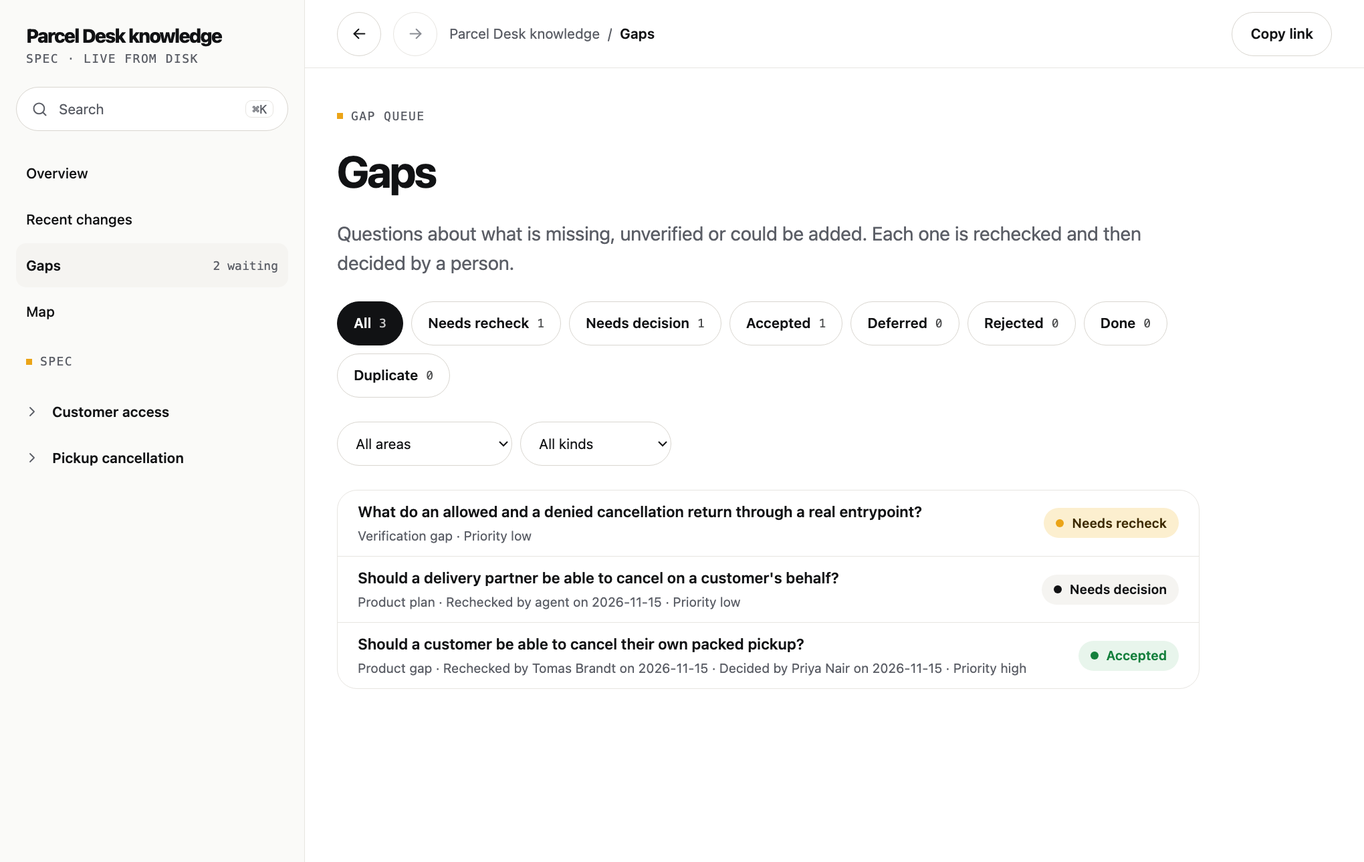
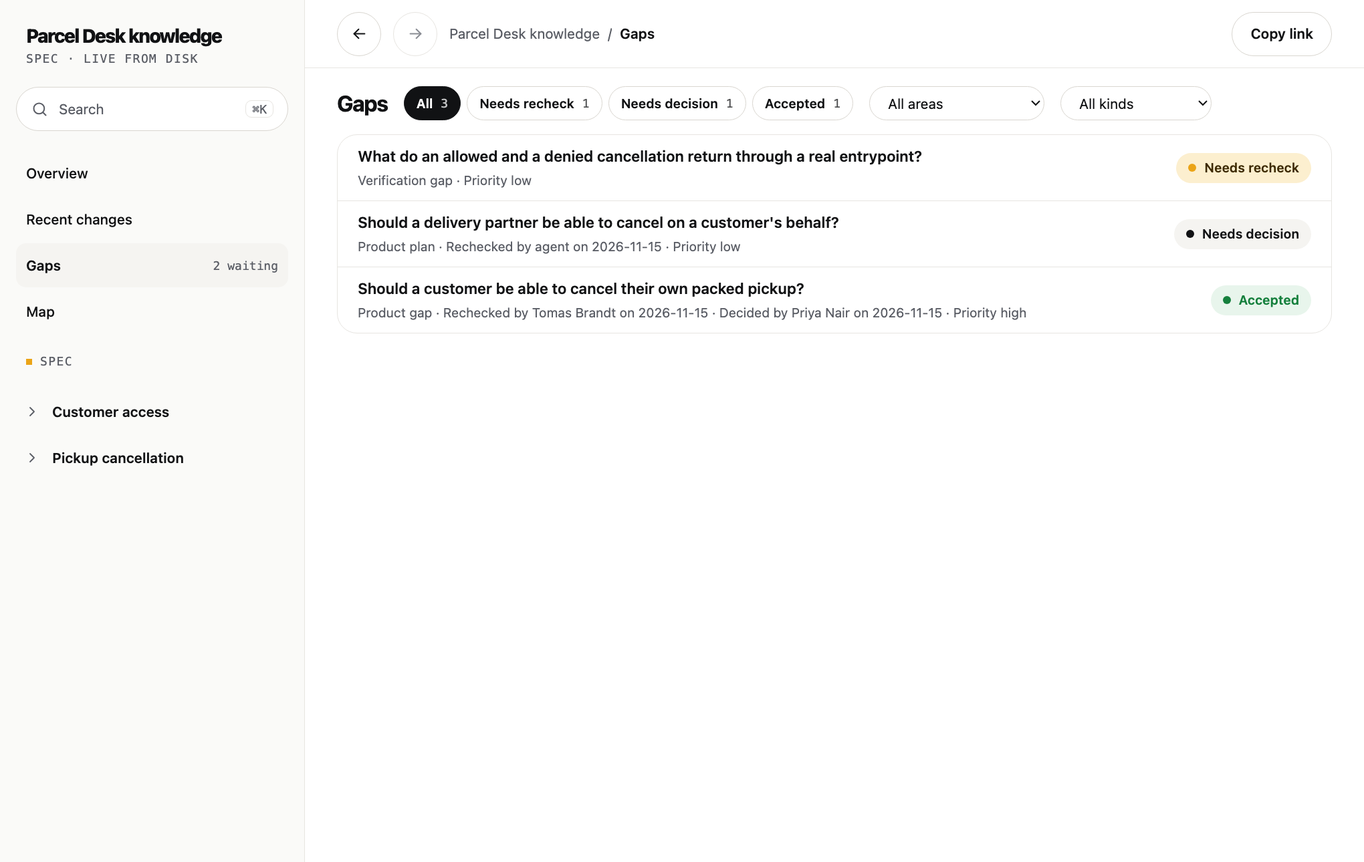
Ask the spec for business rules and complete lists, keep area pages as maps
The spec described mechanisms ("a worker runs durable jobs") but not what
a person looks up: which jobs exist and when they run, how long a name may
be, when a button is disabled. Three changes in the knowledge skill:

- Business rules with their values. A note for a form, action or job gives
  required fields, limits, defaults, formats, when an action is available,
  disabled or hidden, what an empty list shows, the error a person sees and
  who may do it. A note that only says "validates input" is unfinished.
- Reference notes. Every item of one kind in an area (jobs, form fields,
  screen actions, routes, emails, permissions, flags, states, limits) in one
  table, with the count and the place in the code the list comes from. A
  research step now enumerates from those registration points, not only
  from representative paths. The example's cancellation answers note is
  rewritten this way, and the viewer shows a note's table instead of
  folding it away.
- Area pages stay maps. New behavior goes into a new note; check now fails
  on a table, or a link to part of a note, on an area page.

The Gaps page puts its title, state chips and filters in one row and leaves
out states with no gaps. Version 0.5.0; screenshots retaken.

diff --git a/skills/project-knowledge/assets/viewer.html b/skills/project-knowledge/assets/viewer.html
@@ -389,7 +389,27 @@
       }
       .map-head .pill,
       .map-head select {
-        height: 36px;
+        height: 34px;
+      }
+      .map-head .pill {
+        padding: 0 12px;
+        font-size: 13px;
+      }
+      .map-head select {
+        max-width: 220px;
+      }
+      .map-head .pillrow {
+        gap: 6px;
+      }
+      .view:has(> .compact) {
+        padding-top: 18px;
+      }
+      .stack.compact {
+        gap: 14px;
+        max-width: none;
+      }
+      .stack.compact > .card {
+        max-width: 1100px;
       }
       .stack {
         display: flex;
@@ -2544,8 +2564,10 @@
               );
             main.append(markdown(bodyOf(n), n));
           } else if (layer === "spec") {
+            // A reference note's table is what the reader came for, so it is shown, not folded away.
+            const reference = n.type === "note" && /^ {0,3}\|?[ \t]*:?-+:?[ \t]*\|/m.test(bodyOf(n));
             if (n.type === "area") main.append(featureList(featuresOf(n)));
-            else if (!summary) main.append(markdown(bodyOf(n), n)); // nothing plainer to show yet
+            else if (!summary || reference) main.append(markdown(bodyOf(n), n)); // nothing plainer to show yet
             const related = neighbours(n, "spec").filter(
               (r) => r.id !== parent?.id && !(n.type === "area" && primaryArea(r) === n.id),
             );
@@ -2564,7 +2586,7 @@
               main.append(card);
             }
             const folds = el("div");
-            if (n.type === "area" || summary)
+            if (n.type === "area" || (summary && !reference))
               folds.append(fold(n.type === "area" ? "More about this area" : "How it works in the code", markdown(bodyOf(n), n)));
             const sources = (Array.isArray(n.sources) ? n.sources : []).filter(str);
             if (sources.length) {
@@ -2599,23 +2621,27 @@
           return s;
         };
         const areaOptions = () => [["", "All areas"], ...areas.map((a) => [a.id, a.title])];
+        // The queue is a work list: one row of title and filters, then the gaps.
         function viewGaps(view) {
-          const box = el("div", null, "stack");
-          box.append(
-            header(
-              "Gap queue",
-              "Gaps",
-              "Questions about what is missing, unverified or could be added. Each one is rechecked and then decided by a person.",
-            ),
-          );
+          const box = el("div", null, "stack compact"),
+            head = el("div", null, "map-head");
+          head.append(el("h1", "Gaps"));
+          head.title = "Questions about what is missing, unverified or could be added. Each one is rechecked and then decided by a person.";
+          box.append(head);
           const pool = nodes.filter(
               (n) => isGap(n) && inArea(n, gapArea) && (!gapKind || n.kind === gapKind),
             ),
             again = () => show();
-          box.append(
+          head.append(
             pills(
               "State",
-              [["all", "All", pool.length], ...STATES.map((s) => [s, stateLabels[s], pool.filter((g) => stateOf(g) === s).length])],
+              // A state with no gaps under the current filters is left out, unless it is the one selected.
+              [
+                ["all", "All", pool.length],
+                ...STATES.map((s) => [s, stateLabels[s], pool.filter((g) => stateOf(g) === s).length]).filter(
+                  ([s, , count]) => count || s === gapState,
+                ),
+              ],
               gapState,
               (s) => {
                 gapState = s;
@@ -2628,8 +2654,7 @@
           nodes.forEach((n) => {
             if (isGap(n) && str(n.kind) && !kinds.includes(n.kind)) kinds.push(n.kind);
           });
-          const filters = el("div", null, "pillrow");
-          filters.append(
+          head.append(
             selectOf("Area", areaOptions(), gapArea, (v) => {
               gapArea = v;
               again();
@@ -2639,7 +2664,6 @@
               again();
             }),
           );
-          box.append(filters);
           const shown = pool
             .filter((g) => gapState === "all" || stateOf(g) === gapState)
             .sort((a, b) => stateRank(a) - stateRank(b) || byTitle(a, b));

diff --git a/skills/project-knowledge/scripts/knowledge.py b/skills/project-knowledge/scripts/knowledge.py
@@ -31,6 +31,8 @@ UNCOUNTED = ' (uncommitted change, not counted)'  # suffix of a freshness warnin
 CONTROL = re.compile('[\x00-\x1f\x7f\x85\u2028\u2029]')
 SCHEME = re.compile(r'^[A-Za-z][A-Za-z0-9+.-]*:')
 MD_LINK = re.compile(r'\]\(\s*(<[^>]*>|[^\s)]*)')
+# The delimiter row of a GFM table: | --- | :-: |, with or without the outer pipes, at least one pipe.
+TABLE_RULE = re.compile(r'^ {0,3}\|?[ \t]*:?-+:?[ \t]*(\|[ \t]*:?-+:?[ \t]*)+\|?[ \t]*$|^ {0,3}\|[ \t]*:?-+:?[ \t]*\|?[ \t]*$')
 MD_REF = re.compile(r'^ {0,3}\[[^\]\n]+\]:\s*(<[^>]*>|\S+)', re.M)
 GAP_PAGE_ONLY = ('priority', 'confidence')
 ARRAYS = {'areas', 'sources', 'tags', 'aliases', 'task_ids'}
@@ -487,8 +489,17 @@ def load_vault(repo, vault, freshness=True, dirty=None, report=None):
                 errors.append(f"{rel}: spec pages must not link to the gap layer ({'embed ' if embed else ''}{target}); link from the gap to this page instead")
             elif meta['type'] == 'run':
                 run_links += 1
+            elif meta['type'] == 'area' and choices[0]['meta']['type'] == 'note' and re.search(r'[#^]', re.split(r'\\?\|', link, maxsplit=1)[0]):
+                errors.append(f"{rel}: an area page links whole notes, not a part of one ({link.split('|')[0].replace(chr(92), '')}); "
+                              "if that part needs its own link, make it its own note and list it here")
             else:
                 edges.add((meta['id'], choices[0]['meta']['id']))
+        if meta['type'] == 'area':
+            # An area page is a map of its notes. A table on it is behavior written in the wrong place.
+            tables = sum(1 for line in text.split('\n') if TABLE_RULE.match(line))
+            if tables:
+                errors.append(f"{rel}: an area page is a map and holds no table ({tables} found); a table describes behavior: "
+                              "write a note for each thing it describes and list the notes on the area page")
         if meta['type'] in {'area', 'note'}:
             gap_files = {n['path'].casefold() for n in notes if n['meta']['type'] in {'gap', 'plan'}} | {'gaps.md'}
             gap_files |= {f.casefold() for f, kind in failed_kind.items() if kind in {'gap', 'plan'}}

diff --git a/skills/project-knowledge/scripts/test_knowledge.py b/skills/project-knowledge/scripts/test_knowledge.py
@@ -603,6 +603,26 @@ class GapLayerTests(Fixture):
             self.assertEqual(k.main(['check', '--repo', str(self.repo)]), 0)
         self.assertIn('check: 1 notes', out.getvalue())
 
+    def test_area_pages_are_maps_without_tables_or_links_into_notes(self):
+        table = '| Screen | What it does |\n| --- | --- |\n| Profile | Edits the name. [[notes/n|Profile]] |\n'
+        for body in (table, '| a | b |\n|:-|-:|\n| 1 | 2 |', 'a | b\n--- | ---\n1 | 2', '| one column |\n| --- |\n| x |'):
+            with self.subTest(body=body):
+                self.note('areas/a.md', 'a', 'area', areas=[], body=body)
+                self.assertInvalid('an area page is a map and holds no table (1 found)')
+        for link in ('[[notes/n#Profile]]', '[[n#Profile|the profile part]]', '[[notes/n#^block]]', '| [[notes/n#Profile\\|alias]] |'):
+            with self.subTest(link=link):
+                self.note('areas/a.md', 'a', 'area', areas=[], body=f'See {link}.')
+                self.assertInvalid('an area page links whole notes, not a part of one')
+        self.note('areas/a.md', 'a', 'area', areas=[], body='See [[notes/n#Profile|it]].')
+        self.assertIn('not a part of one (notes/n#Profile);', self.errors()[1])
+        # what stays allowed: whole notes, tables in code, lists, and tables or heading links on other pages
+        self.note('areas/a.md', 'a', 'area', areas=[], body='- [[notes/n|The rule]]: one line about it.\n\n```\n| a | b |\n| - | - |\n```\n\nA line with a | pipe.')
+        self.note('notes/n.md', 'n', sources=['source.txt'], body=table + '\nSee [[areas/a#Coverage]].')
+        self.note('notes/m.md', 'm', sources=['source.txt'], body='Part of [[notes/n#Profile]].')
+        self.gap(body=section_body() + '\nSee [[notes/n#Profile]].')
+        status, err = self.errors()
+        self.assertEqual(status, 0, err)
+
     def test_run_pages_cannot_link_to_vault_pages(self):
         for body in ('[[notes/n]]', 'see [[n|the note]] and [[areas/a]]', '![[notes/n]]', '[n](../notes/n.md)', '[n]: ../00-index.md'):
             with self.subTest(body=body):

diff --git a/skills/project-knowledge/SKILL.md b/skills/project-knowledge/SKILL.md
@@ -42,7 +42,7 @@ Natural-language requests are fine; these are modes, not a required CLI.
 - **update**: revisit claims affected since the previous run, preserve manually written knowledge, add discoveries.
 - **sync**: reconcile changes from all contributors since the last reviewed Git checkpoint. Read [the sync workflow](references/sync.md); a sync with work you cannot accept yet (for example another contributor's uncommitted files) uses `deferred` and ends as a partial finish with exit status 3 and the checkpoint unmoved.
 - **merge**: reconcile two contributors' vault updates from their common Git base. Read [the merge workflow](references/merge.md).
-- **explore <area or question>**: deepen a bounded area and link the result into the vault.
+- **explore <area or question>**: deepen a bounded area and link the result into the vault. Deepening an area means its reference notes and business rules first: every job, form, action and limit a person would look up, with its values.
 - **gaps**: work the queue. List gaps by state; re-verify open gaps against the current code; every kind of gap is rechecked, proposals and research questions included, because the recheck asks only whether the page's `Current behavior` still describes the code (`confirmed (still holds)` or `not reproduced (no longer holds)`) and never whether a proposal is worth doing, which is the person's decision. For a proposal that usually means confirming the capability is absent. Record each result in the gap's `Recheck` section with `recheck`, `rechecked_by` (`agent` for checks you ran), `rechecked_on`; set `recheck: "outdated"` on a gap whose cited source changed since its recorded recheck (keeping the other two fields); set `done` where the code now closes the question, recording that reading as a `not-reproduced` recheck by `agent` ([closing a gap as done](references/gaps.md#closing-a-gap-as-done)); mark duplicates. Then hand the `needs-decision` gaps to people with the options you found in `Discussion`. Never decide one yourself. When a person decides in the conversation, record it with their name; if you do not know their name, ask rather than writing `agent`.
 - **audit <document or feature>**: compare written requirements with the code, keeping what the code satisfies apart from what needs action. Read [the audit guide](references/audit.md). In a vault each finding that needs action becomes its own gap; without a vault the audit is a report.
 - **investigate <question>** or **recheck <gap>**: answer one question about behavior from repository and runtime evidence, or re-check a single gap and write the result into it. Read [the investigation guide](references/investigate.md). It works without a vault too.
@@ -59,14 +59,18 @@ Write vault content in English unless the user asks for another language, whatev
 1. Read the repository's instructions and any task coordination they require. Preserve existing edits. Record the exact revision and whether you read uncommitted files. Application source is read-only: this skill writes only inside the vault.
 2. Inspect manifests, entrypoints, routes, schema and migrations, services and tests. Skip dependencies, build output, credential files, raw logs and customer data. Never use the generated vault as evidence about the application.
 3. Cluster capabilities and follow representative vertical paths (UI, API, policy or service, persistence, tests). A directory name establishes neither a domain boundary nor a behavior.
-4. Track what was read, merely discovered, excluded or changing in each area. Discovery is not review, and a note count is not completeness. For large projects finish a broad map, then deepen area by area and save a checkpoint.
+4. Then make each area complete where a person will look things up. A representative path shows how an area works; it does not tell anyone which jobs exist or how long a name may be. Find where the code lists things of one kind (the queue and cron registrations, the route table, the validation schemas, the database constraints, the form components, the permission checks, the flags, the email templates) and enumerate from there, every item, not a sample. Read the rules off the code: a `max(60)` in a schema, a `disabled={items.length === 0}` on a button, a `CHECK` constraint, a default value, an error message.
+5. Track what was read, merely discovered, excluded or changing in each area. Discovery is not review, and a note count is not completeness. For large projects finish a broad map, then deepen area by area and save a checkpoint.
 
 Delegate only when the user or repository instructions allow it; give each helper a disjoint area and integrate their evidence before accepting a claim.
 
 ## Write the spec
 
-- **Area** pages are maps: purpose, boundaries, entrypoints, links to the notes, related areas, and what was read, merely discovered or left out. Give each a one-line `summary`; the viewer shows it.
-- **Note** pages state one behavior, rule or workflow: when it matters, what happens, exceptions, evidence, a verification route. Give each a `summary` of one or two sentences in plain language: what the product does and for whom, as a person who never opens the code would say it, with no file names, symbols, status codes or words like "verified". The viewer's Read view shows the title and this summary and folds the rest away, so a note without a summary reads as raw code detail. The summary is still a claim about the code: it says no more than the page proves. Do not infer design rationale; cite a comment or ADR in the source, or say it is unknown.
+- **Area** pages are maps: what the area covers and where it stops, a list of its notes with one line each, related areas, and what was read, merely discovered or left out. Give each a one-line `summary`; the viewer shows it.
+- **New behavior goes into a new note, never into the area page.** An area page describes no behavior itself: no screens, steps, walk-throughs or tables. When you document how a feature works, write a note for it and add a line for it to the area's list, even when the area page looks like the quicker place. A feature with several parts (screens, tabs, steps) gets a note per part, plus one note that ties them together only when the parts share a flow worth describing. Link whole notes: if you want to link a heading inside a note, that part is a note of its own. `check` rejects a table, or a link to part of a note, on an area page.
+- **Note** pages state one behavior, rule or workflow; a note with a section per screen or per case is several notes: when it matters, what happens, exceptions, evidence, a verification route. Give each a `summary` of one or two sentences in plain language: what the product does and for whom, as a person who never opens the code would say it, with no file names, symbols, status codes or words like "verified". The viewer's Read view shows the title and this summary and folds the rest away, so a note without a summary reads as raw code detail. The summary is still a claim about the code: it says no more than the page proves. Do not infer design rationale; cite a comment or ADR in the source, or say it is unknown.
+- **Write down the business rules, with their values.** The spec is for someone who needs to know what the product does, so the concrete rule is the content and a description of the mechanism is not enough: "a name is required and at most 60 characters, and longer input is refused with 'Name is too long'", not "the form validates the name". For every form, action and job say what is required, the limits (length, range, count, size, format, uniqueness), defaults, rounding and time zones, when an action is available, disabled or hidden ("Send is disabled while the list is empty"), what an empty list shows, what needs a confirmation, which error the person sees, and who may do it. When the browser and the server check different things, write both; when they disagree, open a `conflict` gap. A note that says "validates input" or "uses a worker" without the rules it applies is not finished.
+- **Reference notes** list every item of one kind in an area as a table, one row per item, for example the background jobs (name, what starts it: a schedule with its timing, an event or a person; what it does; when it is enabled; what happens on failure), the fields of a form (field, required, limits, default, the message on invalid input), or the actions on a screen (action, available when, disabled or hidden when, who may use it). Say how many there are and where the list comes from ("all 7 jobs registered in `worker/index.ts`"), so a later sync can tell when one is added. Put the registration point in `sources`. Tables belong in notes, never on the area page, and the area page lists its reference notes first. A reference note's `summary` still speaks plainly: "Seven background jobs: three run on a schedule, four are started by events."
 - Cite repository-relative files and named symbols, with line anchors or commit permalinks where available, and list them in `sources`. Say what was read versus run: reading a test does not mean it passes today. Record real commands and results, or `NOT RUN`.
 - Link related spec pages with `[[notes/example|label]]` and say how they relate (depends on, constrains, produces, supersedes). Every substantive page needs an area and a path from the index. Add cross-area links for a reason, not for graph density.
 - A requirements document or ticket is documented intent. It can be quoted in a gap's `Evidence`; it is not a source for what the code does, so never list it in a spec page's `sources` or describe its labels in spec text.

diff --git a/skills/project-knowledge/references/format.md b/skills/project-knowledge/references/format.md
@@ -69,22 +69,26 @@ Gap-only properties are errors on any other page type, `gap` is an error on a pa
 
 ## Body
 
-Spec pages state facts about the code. Include for a note, usually 150-350 words and shorter when sufficient:
+Spec pages state facts about the code, and the facts a person looks up are the concrete rules: limits, required fields, defaults, formats, when an action is available or disabled, what an empty list shows, which message appears, who may do it, what starts a job and how often. A note gives these values, not only the mechanism that applies them.
+
+There are two shapes of note. A **behavior note** explains one rule or flow in prose, usually 150-350 words and shorter when sufficient. A **reference note** lists every item of one kind in an area (jobs, forms and their fields, the actions on a screen, routes, emails, notifications, roles and permissions, flags, states, limits) as one Markdown table, one row per item, with the count and the place in the code the list comes from, which is also in `sources`; it is as long as the table needs. Include for a note:
 
 - A precise title and `Area: [[areas/collections|Collections]]`.
 - When the note is useful; behavior and boundaries; explicit labels on inference.
 - Evidence links and symbols, e.g. `[service.ts](../../../src/server/cases/service.ts#L40)`, `createPeriod`, with what each demonstrates.
 - An existing verification command and actual PASS/FAIL/NOT RUN.
 - Semantic links to other spec pages with reasons, e.g. depends on `[[notes/another-rule|rule]]` because ...
+- For a reference note: the table, how many rows it has and why that is all of them ("every job registered in `worker/index.ts`"). Columns name the facts a reader asks about; a cell holds a value from the code ("60 characters", "daily at 06:00 UTC", "disabled while the list is empty"), not a description. Inside a table a wikilink's alias separator is written `\|`.
 
-All sample paths and symbols are illustrative. Area pages list reviewed, discovered and deferred scope. The index links all areas. Scope is stated as what was read and what comes next, never as an invented completeness percentage. Runs record revision, dirty scope, bounds and outcomes.
+All sample paths and symbols are illustrative. Area pages list their notes with one line each and the reviewed, discovered and deferred scope; they describe no behavior themselves. The index links all areas. Scope is stated as what was read and what comes next, never as an invented completeness percentage. Runs record revision, dirty scope, bounds and outcomes.
 
 The validator enforces these body rules:
 
 1. An `area` or `note` page may not reference the gap layer in any form: a wikilink, an embed (`![[...]]`) or a Markdown link to a `gap` or `plan` page, a Markdown link to `GAPS.md`, or any link inside its `title` or `summary`. Link from the gap to the note instead. Links from gaps, plans and index pages to anything are fine.
 2. A `run` page links to no vault page, by wikilink, embed or Markdown link. It names the pages it touched by path in code formatting (`notes/example`). A run touches many pages; as links they would make every run a hub and the area clusters would collapse into one ball in Obsidian's graph. Links to source files and URLs are fine, and the index may link to a run.
-3. A gap has six `##` sections with exactly these headings, each once: `Current behavior`, `Gap`, `Evidence`, `Recheck`, `Discussion`, `Decision`. Headings inside code fences do not count.
-4. When `decision` is not `open`, `Decision` needs text; when `recheck` is not `not-checked`, `Recheck` needs text.
+3. An `area` page holds no table and links whole notes only, never a heading or block inside one (`[[notes/x#Part]]`). Behavior is described in notes; a part that needs its own link is its own note. Tables and links to parts of a note are fine on other pages, and a table inside a code fence does not count.
+4. A gap has six `##` sections with exactly these headings, each once: `Current behavior`, `Gap`, `Evidence`, `Recheck`, `Discussion`, `Decision`. Headings inside code fences do not count.
+5. When `decision` is not `open`, `Decision` needs text; when `recheck` is not `not-checked`, `Recheck` needs text.
 
 ## Helper
 
@@ -128,7 +132,7 @@ Canonical Markdown must not contain raw merge conflicts. Validation rejects comp
 
 `serve` shows the vault in a browser: `knowledge.py serve --repo REPO [--vault VAULT] [--port N] [--open]`. Without `--vault`, this and every other command use the single vault under `knowledge/` (`knowledge/00-index.md` or `knowledge/*/00-index.md`) and stop with a message when there is none or several. It listens on `127.0.0.1` only (port 8757, or a free one when that is taken), answers only `/` and only when addressed as this machine, never writes, and builds the page again from disk on every request, so a reload shows the current files. When the vault has errors the page lists them. The page data is the graph above plus `live: true`, `vaultPath` (the vault's path relative to the repository), `history`, `pending` and `files`. `history` is the last 30 commits that touched vault pages (not the generated files or `.knowledge/`), newest first, each `{"sha", "date", "subject", "pages", "more"}`; a page entry is `{"path", "status"}` with `status` `added`, `changed` or `removed`, plus `was` and `now` when the commit changed the page's `summary` (or, failing that, its `title`); at most 80 pages are listed per commit and `more` counts the rest. `pending` lists vault pages with uncommitted changes in the same `{"path", "status"}` shape. Both are empty outside a Git work tree. `files` is the text of the repository files that pages cite in `sources` or link to, keyed by repository-relative path, each `{"text", "truncated"}`. A file is included only when it is inside the repository and outside the vault, is not a credential path, and is UTF-8 text; one file is cut at 300,000 characters and all files together at 4,000,000, after which the rest stay ordinary links. The viewer opens a link to an included file in place: Markdown rendered, anything else as numbered lines, with the lines of a `#L10` or `#L10-L20` fragment marked.
 
-`assets/viewer.html` has exactly one `__KNOWLEDGE_DATA__` placeholder for script-safe JSON. Treat contents as untrusted text: no raw Markdown HTML execution, unsafe URL schemes, external scripts, fonts, analytics or fetches. Render readable basic Markdown, pipe tables and wikilinks; leave unsupported syntax as text. The viewer has a tree of areas with their notes (a note is listed under its first area; superseded notes are not listed), a search over pages, gaps and the cited files, and five places: the overview, a page, the gap queue, the map and recent changes. A spec page shows its title, `summary`, related pages and the gaps about it that are not closed, then folded sections for the page text (unfolded when the page has no `summary`) and its source files. Navigation keeps a trail for Back and Forward and writes the place into the address (`#/page/notes/example`, `#/gaps`), so a reload or a copied link returns to it. The map draws one frame per primary area (the area page, or the first entry of `areas`) with its pages inside; an edge between a page and its primary area is not drawn because the frame says it, links inside one area are solid and links across areas dashed; `nav` pages are not drawn. Recent changes reads `history`, `pending` and the "changed source" lines of `warnings`. "Copy for AI" only composes text from the page, a choice of what the agent should do and the reader's own words, and copies it to the clipboard. The reader's name, the recently viewed pages and the last commit seen are kept in the browser's `localStorage`, and the viewer works without it. Generated filenames are reserved.
+`assets/viewer.html` has exactly one `__KNOWLEDGE_DATA__` placeholder for script-safe JSON. Treat contents as untrusted text: no raw Markdown HTML execution, unsafe URL schemes, external scripts, fonts, analytics or fetches. Render readable basic Markdown, pipe tables and wikilinks; leave unsupported syntax as text. The viewer has a tree of areas with their notes (a note is listed under its first area; superseded notes are not listed), a search over pages, gaps and the cited files, and five places: the overview, a page, the gap queue, the map and recent changes. A spec page shows its title, `summary`, related pages and the gaps about it that are not closed, then folded sections for the page text (shown unfolded when the page has no `summary` or holds a table, as a reference note does) and its source files. Navigation keeps a trail for Back and Forward and writes the place into the address (`#/page/notes/example`, `#/gaps`), so a reload or a copied link returns to it. The map draws one frame per primary area (the area page, or the first entry of `areas`) with its pages inside; an edge between a page and its primary area is not drawn because the frame says it, links inside one area are solid and links across areas dashed; `nav` pages are not drawn. Recent changes reads `history`, `pending` and the "changed source" lines of `warnings`. "Copy for AI" only composes text from the page, a choice of what the agent should do and the reader's own words, and copies it to the clipboard. The reader's name, the recently viewed pages and the last commit seen are kept in the browser's `localStorage`, and the viewer works without it. Generated filenames are reserved.
 
 ## Format references
 

diff --git a/examples/parcel-desk/knowledge/parcel-desk/notes/route-responses.md b/examples/parcel-desk/knowledge/parcel-desk/notes/route-responses.md
@@ -1,19 +1,27 @@
 ---
 id: "route-responses"
-title: "Cancellation exceptions become adapter statuses"
+title: "What a cancellation request returns"
 type: "note"
 status: "current"
 areas: ["pickups", "access"]
 sources: ["src/routes.py", "src/pickups.py", "tests/test_pickups.py"]
-tags: ["knowledge", "contract"]
+tags: ["knowledge", "contract", "reference"]
 summary: "A cancellation request gets one of three answers: cancelled, refused because the pickup belongs to someone else, or refused because it can no longer be cancelled."
-updated: "2026-11-14"
+updated: "2026-11-16"
 ---
 
-# Cancellation exceptions become adapter statuses
+# What a cancellation request returns
 
 Areas: [[areas/pickups|Pickup cancellation]] and [[areas/access|Customer access]].
 
-The in-process `cancel_request` adapter calls `cancel_pickup` and returns a dictionary: `{"status": 403, "error": "forbidden"}` for `PermissionError`, `{"status": 409, "error": "cancellation_conflict"}` for `ValueError`, and `{"status": 200, "state": <new state>}` on success. See [the adapter](../../../src/routes.py) and [the called service](../../../src/pickups.py).
+Every answer of `cancel_request`, the in-process adapter in [routes.py](../../../src/routes.py): three, one for each way out of `cancel_pickup` in [pickups.py](../../../src/pickups.py). The checks run in the order of the rows, and the first one that fails decides the answer.
 
-[[notes/ownership-check|Ownership]] decides the 403 case and [[notes/cancellation-boundary|state eligibility]] decides the 409 case, so a `packed` pickup owned by the caller reaches the 409 branch. The [existing tests](../../../tests/test_pickups.py) exercise the three branches with a requested, an other-customer and a collected pickup, and passed in the example check. The values are dictionaries returned in-process, not observed HTTP responses.
+| Case | Condition | Answer | Pickup state afterwards |
+| --- | --- | --- | --- |
+| Another customer's pickup | `pickup.customer_id` is not the caller's | `{"status": 403, "error": "forbidden"}` | unchanged |
+| Can no longer be cancelled | the caller's pickup, in any state but `requested` (for example `packed` or `picked_up`) | `{"status": 409, "error": "cancellation_conflict"}` | unchanged |
+| Cancelled | the caller's pickup, in state `requested` | `{"status": 200, "state": "cancelled"}` | `cancelled` |
+
+There is no fourth answer: the adapter catches only `PermissionError` and `ValueError`, and any other exception propagates to its caller. Because [[notes/ownership-check|the owner check]] runs first, the answer for another customer's pickup does not depend on its state. [[notes/cancellation-boundary|The state rule]] decides the second row, so a `packed` pickup of the caller's own is refused.
+
+The [existing tests](../../../tests/test_pickups.py) cover each row once (another customer, `picked_up`, `requested`); the first two assert the status and the unchanged state but not the `error` text. They passed in the example check. The answers are dictionaries returned in-process, not observed HTTP responses.

diff --git a/examples/parcel-desk/knowledge/parcel-desk/areas/access.md b/examples/parcel-desk/knowledge/parcel-desk/areas/access.md
@@ -15,6 +15,6 @@ updated: "2026-11-14"
 The adapter accepts a customer identifier supplied by its caller, and the service compares it with the pickup's owner before looking at state. This is a policy check on a supplied value; nothing in the fixture authenticates a request.
 
 - [[notes/ownership-check|Ownership rule]] constrains [[areas/pickups|pickup cancellation]].
-- [[notes/route-responses|Route responses]] shows how a refusal is reported as status 403.
+- [[notes/route-responses|What a cancellation request returns]] (reference) shows how a refusal is reported as status 403.
 
 Read: [service](../../../src/pickups.py), [adapter](../../../src/routes.py), and [tests](../../../tests/test_pickups.py). The other-customer test passed in the example check. Identity providers, sessions and any partner identity are not present in the fixture.

diff --git a/examples/parcel-desk/knowledge/parcel-desk/areas/pickups.md b/examples/parcel-desk/knowledge/parcel-desk/areas/pickups.md
@@ -14,7 +14,7 @@ updated: "2026-11-14"
 
 This area covers the in-memory cancellation transition and the adapter response built from it. It depends on [[areas/access|customer access]], whose owner check runs before any state is considered.
 
+- [[notes/route-responses|What a cancellation request returns]] (reference): every answer, with the condition behind it.
 - [[notes/cancellation-boundary|Cancellation boundary]]: the service cancels only pickups whose state is `requested`.
-- [[notes/route-responses|Route responses]]: service exceptions become status values.
 
 Read: [service](../../../src/pickups.py), [adapter](../../../src/routes.py) and [tests](../../../tests/test_pickups.py). The three existing tests passed in the example check. Not modeled: real transport, persistence, concurrent requests and deployment.
